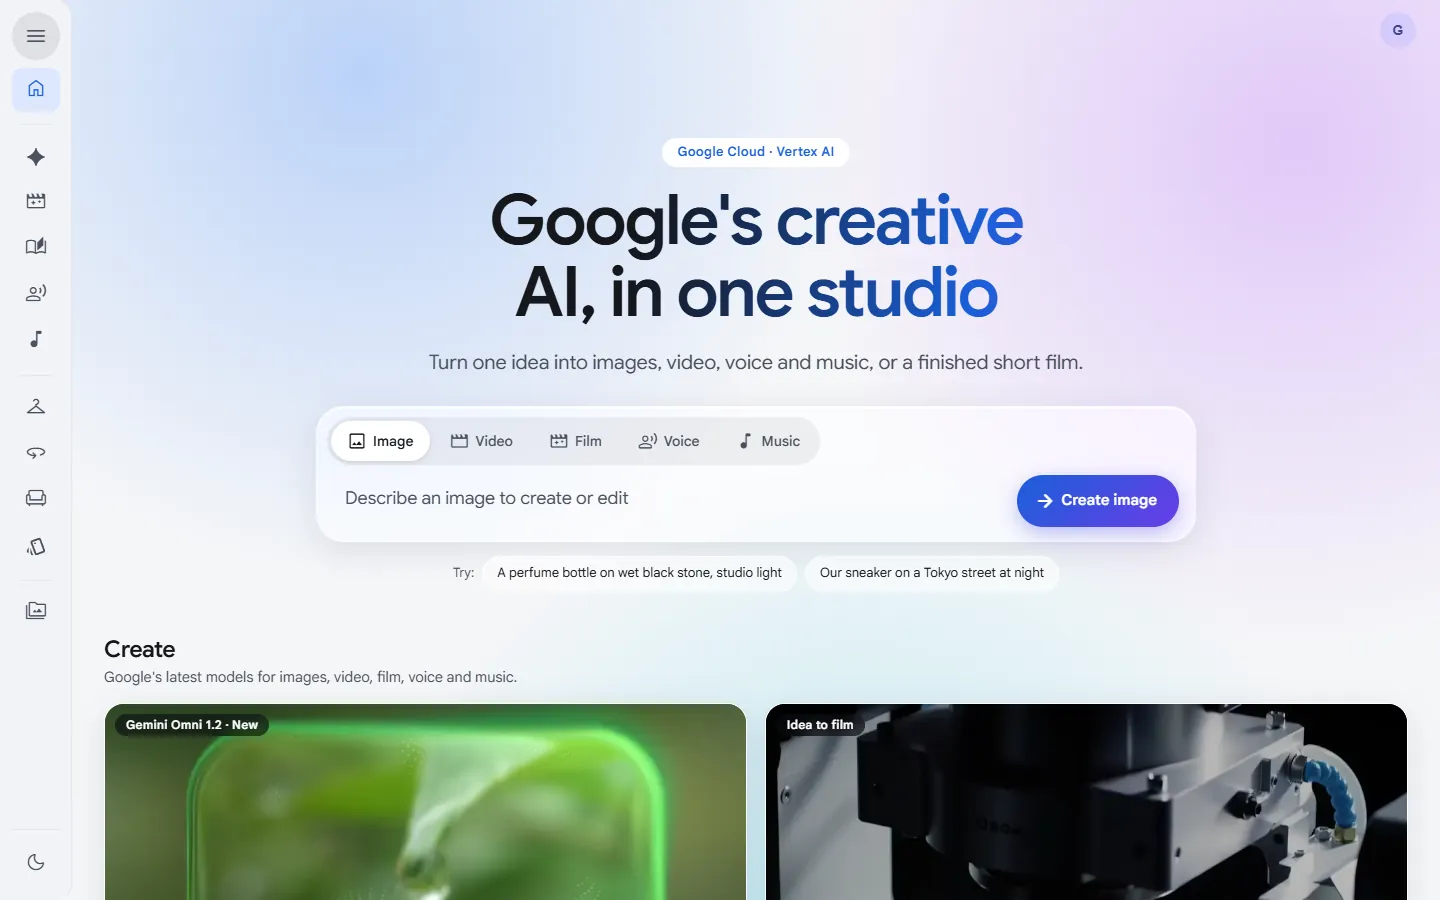
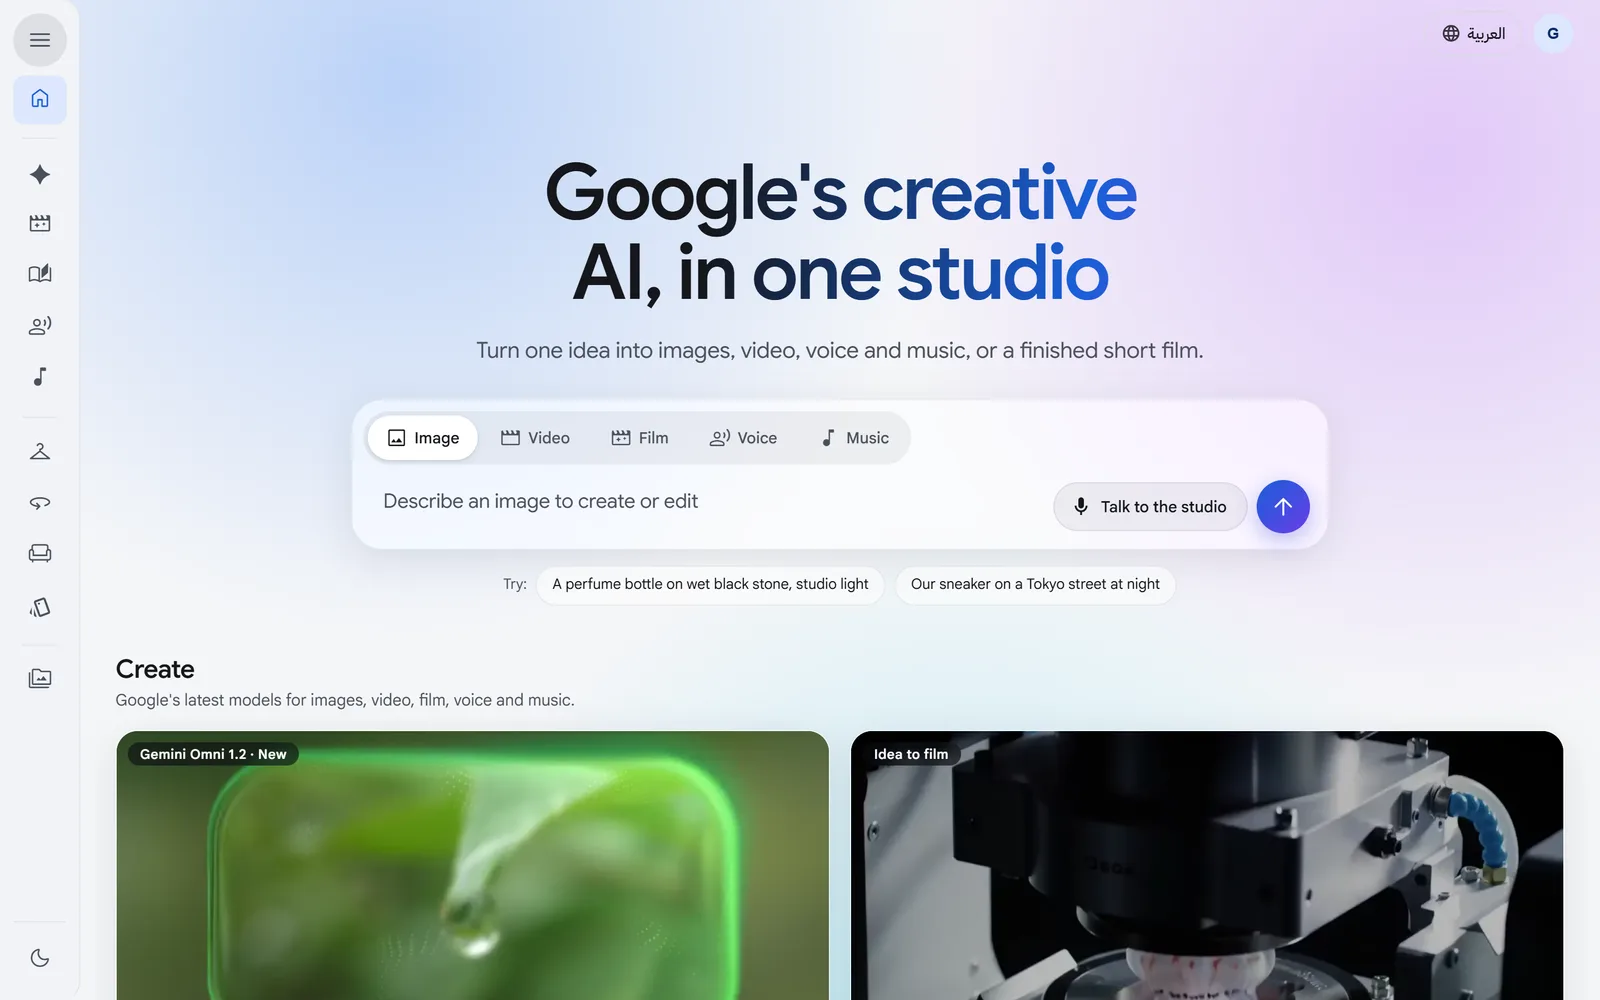
docs: showcase README with fresh screenshots, models, architecture and demo script

diff --git a/README.md b/README.md
@@ -2,58 +2,141 @@
 
 # GenMedia Studio
 
-**Google's creative AI in one studio: images, video, films, voice and music, on Vertex AI and Cloud Run.**
+### Google's creative AI, in one studio.
+
+One idea becomes an image, a video, a voice-over, a song, or a finished short film,<br>
+using Google's newest generative models on **Vertex AI**, deployed to **Cloud Run** with one command.
 
 [![License: Apache 2.0](https://img.shields.io/badge/license-Apache_2.0-blue.svg)](LICENSE)
 [![Python 3.14](https://img.shields.io/badge/python-3.14-3776AB.svg?logo=python&logoColor=white)](pyproject.toml)
-[![Runs on Cloud Run](https://img.shields.io/badge/runs_on-Cloud_Run-4285F4.svg?logo=googlecloud&logoColor=white)](deploy/quickstart/README.md)
+[![Vertex AI](https://img.shields.io/badge/models-Vertex_AI-4285F4.svg?logo=googlecloud&logoColor=white)](#the-google-models-inside)
+[![Cloud Run](https://img.shields.io/badge/runs_on-Cloud_Run-4285F4.svg?logo=googlecloud&logoColor=white)](deploy/quickstart/README.md)
+[![English and Arabic](https://img.shields.io/badge/languages-English_·_العربية-34A853.svg)](#built-for-real-demos)
 
-[Quick start](#quick-start) · [Deploy](#deploy-to-cloud-run) · [Configuration](docs/environment_variables.md) · [Contributing](CONTRIBUTING.md)
+[Studios](#the-studios) · [Models](#the-google-models-inside) · [Try it free](#try-it-in-two-minutes) · [Deploy](#deploy-to-your-google-cloud-project) · [Architecture](#architecture) · [Demo script](#a-five-minute-demo)
 
 <br>
 
 <picture>
   <source media="(prefers-color-scheme: dark)" srcset="docs/images/home-dark.webp">
   <source media="(prefers-color-scheme: light)" srcset="docs/images/home-light.webp">
-  <img alt="The GenMedia Studio home page" src="docs/images/home-light.webp" width="100%">
+  <img alt="GenMedia Studio home page: one prompt box with Image, Video, Film, Voice and Music, and a Talk to the studio button" src="docs/images/home-light.webp" width="100%">
 </picture>
 
 </div>
 
-Type one idea on the home page, pick Image, Video, Film, Voice or Music, and the right studio opens with your idea filled in. The whole studio works in English and Arabic (right to left), in light and dark.
+## Why it exists
 
-## Features
+Google's media models are best understood by watching them work together. GenMedia Studio puts them in one polished app a presenter can open in front of a customer: type an idea once, pick what to make, and the right studio opens with the idea filled in. Or click **Talk to the studio** and drive the whole app by voice.
 
-| Studio | What it does | Models |
-|---|---|---|
-| **Image** | Make and edit images from a prompt and reference pictures. | Nano Banana 2.1 |
-| **Video** | Make, edit, extend or upscale video from a prompt, a picture or frames. | Gemini Omni 1.2, Veo 3.1 |
-| **Story** | One idea to a finished film: script, storyboard, scenes, voice-over and music. | Gemini, Nano Banana, Veo, Lyria |
-| **Voice** | A script to natural speech in 130+ languages, one or two speakers. | Gemini 3.8 Flash TTS, Chirp 3 HD |
-| **Music** | Original music, with or without lyrics. | Lyria 3 |
+- **Every modality in one place.** Images, video, speech, music and multi-scene films share one prompt box, one library and one look.
+- **Real workflows, not just prompts.** Story Studio chains five models into a finished film; the industry demos show retail, real estate and brand use cases end to end.
+- **Yours in your own project.** One script deploys it to Cloud Run in your Google Cloud project. It uses Google Cloud credentials (no API keys), keeps every file in your own bucket, and costs nothing while idle.
 
-Industry demos: **Fashion** try-on, **Product 360** turntables, **Interiors** from a floor plan, and **Brand kit** campaigns. Everything you make lands in the **Library**, and sign-in comes with **admin** and **user** roles (or Google sign-in through IAP).
+## The studios
 
 <table>
   <tr>
-    <td width="50%">
+    <td width="50%" valign="top">
       <picture>
         <source media="(prefers-color-scheme: dark)" srcset="docs/images/story-dark.webp">
-        <img alt="Story Studio" src="docs/images/story-light.webp">
+        <img alt="Story Studio storyboard with four scenes and camera moves" src="docs/images/story-light.webp">
       </picture>
+      <h3>Story Studio</h3>
+      One idea to a finished film. Gemini writes the script, Nano Banana paints the storyboard, Gemini Omni shoots each scene with sound and on-camera speech, Gemini TTS narrates and Lyria scores it. Finish it in the timeline editor, export an Arabic version, and reuse <b>Sets</b> (the same characters, places and voices) across films.
     </td>
-    <td width="50%">
+    <td width="50%" valign="top">
       <picture>
         <source media="(prefers-color-scheme: dark)" srcset="docs/images/video-dark.webp">
-        <img alt="Video Studio" src="docs/images/video-light.webp">
+        <img alt="Video Studio with Text, Image, First and last frame, References, Edit, Extend and Upscale modes" src="docs/images/video-light.webp">
       </picture>
+      <h3>Video Studio</h3>
+      Make video from text, a picture, first and last frames or reference images, then edit, extend or upscale it. Gemini Omni makes the picture and the sound together; Veo 3.1 is available as an option.
+    </td>
+  </tr>
+  <tr>
+    <td width="50%" valign="top">
+      <picture>
+        <source media="(prefers-color-scheme: dark)" srcset="docs/images/image-dark.webp">
+        <img alt="Image Studio prompt box with Nano Banana 2.1, aspect ratio and resolution chips" src="docs/images/image-light.webp">
+      </picture>
+      <h3>Image Studio</h3>
+      Create and edit images from a prompt and your own reference pictures with Nano Banana 2.1. Settings typed in the prompt ("16:9", "4K") update the chips, and one click turns any image into a video.
+    </td>
+    <td width="50%" valign="top">
+      <picture>
+        <source media="(prefers-color-scheme: dark)" srcset="docs/images/voice-dark.webp">
+        <img alt="Voice studio with Gemini TTS, voice, language, style and pace chips" src="docs/images/voice-light.webp">
+      </picture>
+      <h3>Voice and Music</h3>
+      Natural speech in 130+ languages with one or two speakers and stage directions (Gemini TTS, Chirp 3 HD). Original music, with or without lyrics, from Lyria 3.
     </td>
   </tr>
 </table>
 
-## Quick start
+### Talk to the studio
 
-You need [`uv`](https://docs.astral.sh/uv/). Mock mode needs no Google Cloud account: it returns placeholder media so you can click through every page for free.
+A **Gemini Live** voice agent runs the app for you. Say *"make an image of a red fox in the snow, and while that's going, start a video of waves at sunset"*: the agent opens each studio, types the prompt, runs the jobs side by side, and tells you at the next pause when each one is ready. You can hang up and type instead at any time.
+
+### Industry demos
+
+<table>
+  <tr>
+    <td width="33%" valign="top">
+      <picture>
+        <source media="(prefers-color-scheme: dark)" srcset="docs/images/fashion-dark.webp">
+        <img alt="Fashion virtual try-on" src="docs/images/fashion-light.webp">
+      </picture>
+      <b>Fashion</b><br>Dress a model in any garment, or style a whole look from a catalog.
+    </td>
+    <td width="33%" valign="top">
+      <picture>
+        <source media="(prefers-color-scheme: dark)" srcset="docs/images/product-dark.webp">
+        <img alt="Product 360 turntable" src="docs/images/product-light.webp">
+      </picture>
+      <b>Product 360</b><br>One product photo becomes a 360° turntable video.
+    </td>
+    <td width="33%" valign="top">
+      <picture>
+        <source media="(prefers-color-scheme: dark)" srcset="docs/images/interiors-dark.webp">
+        <img alt="Interiors from a floor plan" src="docs/images/interiors-light.webp">
+      </picture>
+      <b>Interiors</b><br>A floor plan becomes a 3D view, restyled rooms and a video tour.
+    </td>
+  </tr>
+</table>
+
+Plus **Brand kit**, a set of on-brand campaign images from one idea, and the **Library**, where everything anyone makes is saved with its prompt and settings.
+
+## The Google models inside
+
+| Model | What it does here | Used in |
+|---|---|---|
+| **Gemini 3.8 Flash** | Scripts, scene plans, prompt rewriting, the "suggest" and "enhance" buttons | Every studio |
+| **Nano Banana 2.1** (Gemini image) | Image creation and editing, storyboards, try-on, rooms, brand sets | Image, Story, Fashion, Interiors, Brand kit |
+| **Gemini Omni 1.2 Flash** | Video with native sound and speech, edits, extensions | Video, Story, Product 360, Interiors |
+| **Veo 3.1** (optional) | Alternative video model | Video |
+| **Gemini TTS** and **Chirp 3 HD** | Narration and voice-over in 130+ languages | Voice, Story |
+| **Lyria 3** | Instrumental music and songs with lyrics | Music, Story |
+| **Gemini Live** | Real-time voice agent that drives the app | Talk to the studio |
+
+Every model ID is a setting, so a new model version is a config change: see [docs/environment_variables.md](docs/environment_variables.md).
+
+## Built for real demos
+
+<picture>
+  <source media="(prefers-color-scheme: dark)" srcset="docs/images/arabic-dark.webp">
+  <img alt="The home page in Arabic, laid out right to left" src="docs/images/arabic-light.webp" width="100%">
+</picture>
+
+- **English and Arabic.** Every screen switches language and direction (right to left) with one click, in light or dark.
+- **Demo mode.** Run with no Google Cloud account: every studio returns placeholder media instantly, so you can rehearse or click through the whole app for free.
+- **Sign-in your way.** Built-in admin and user roles, or Google sign-in through Identity-Aware Proxy. Admins choose whether the Library is shared or private to each person.
+- **Phone-ready.** Every page works from 390 px wide up.
+
+## Try it in two minutes
+
+You need [`uv`](https://docs.astral.sh/uv/). Demo mode needs no cloud account and costs nothing.
 
 ```bash
 git clone https://github.com/ProjectZero02/creative-studio.git
@@ -62,30 +145,63 @@ uv sync
 APP_ENV=local GENMEDIA_MOCK_GENERATION=true STORY_STUDIO_MOCK=true uv run src/main.py
 ```
 
-Open <http://localhost:8080>. For real models, run `gcloud auth application-default login`, copy `dotenv.template` to `.env`, set `PROJECT_ID` and `GENMEDIA_BUCKET`, then `uv run src/main.py`.
+Open <http://localhost:8080>. Add `?live=offline` to any page to try the voice agent by typing.
 
-## Deploy to Cloud Run
+To use the real models, run `gcloud auth application-default login`, copy `dotenv.template` to `.env`, set `PROJECT_ID` and `GENMEDIA_BUCKET`, and run `uv run src/main.py`.
 
-One script sets up the project (APIs, service account, bucket, Firestore, secrets) and deploys. It is safe to re-run, and an idle studio scales to zero.
+## Deploy to your Google Cloud project
+
+One script turns on the APIs and creates the service account, bucket, Firestore database and secrets, then builds and deploys to Cloud Run. It is safe to re-run, and an idle studio scales to zero.
 
 ```bash
 bash deploy/quickstart/deploy.sh --project YOUR_PROJECT --admin-email you@company.com
 ```
 
-Add `--dry-run` to preview every command. Full guide: [`deploy/quickstart/README.md`](deploy/quickstart/README.md).
+Add `--dry-run` to see every command first, or `--region` to pick another region (default `us-central1`). Prefer infrastructure as code? Terraform modules are in [`deploy/terraform`](deploy/terraform). Full guide: [`deploy/quickstart/README.md`](deploy/quickstart/README.md).
 
-## How it works
+## Architecture
 
-A Python app: a [Mesop](https://mesop-dev.github.io/mesop/) UI on FastAPI, running as one Cloud Run service. Models are called through **Vertex AI** with Google Cloud credentials (no API keys), media is saved to **Cloud Storage**, and the library, users and stories live in **Firestore**.
+```mermaid
+flowchart LR
+  user([Presenter or team<br>browser, mic]) -->|HTTPS + WebSocket| iap[Identity-Aware Proxy<br>optional]
+  iap --> run
+
+  subgraph gcp [Your Google Cloud project]
+    run[Cloud Run<br>GenMedia Studio<br>Mesop UI on FastAPI]
+    vertex[Vertex AI<br>Gemini · Nano Banana · Gemini Omni · Veo<br>Gemini TTS · Chirp 3 HD · Lyria · Gemini Live]
+    gcs[(Cloud Storage<br>images, video, audio)]
+    fs[(Firestore<br>library, users, stories, sets)]
+    sm[Secret Manager]
+    build[Cloud Build +<br>Artifact Registry]
+  end
+
+  run -->|service account, no API keys| vertex
+  run --> gcs
+  run --> fs
+  run --> sm
+  build -.->|container image| run
+```
+
+- **One Cloud Run service** serves the UI and API, with session affinity for the Gemini Live WebSocket. It scales to zero when nobody is using it.
+- **Vertex AI** is called with the service account's credentials, so there are no API keys to leak or rotate.
+- **Cloud Storage** holds every generated file; **Firestore** holds the library, users, stories and sets.
+- Long jobs (films, multi-scene renders) run in the background and survive page changes.
 
 | Folder | What's in it |
 |---|---|
-| `src/` | The app: `main.py`, plus `pages/` (one file per studio), `components/`, `models/` (Vertex AI calls), `services/`, `routers/`, `state/`, `config/`, `common/` and `assets/` |
-| `deploy/` | Cloud Run quickstart, Terraform and scripts |
-| `test/` | `pytest` suite |
-| `docs/` | Configuration reference, FAQ and screenshots |
-| `scripts/` | Build and maintenance scripts |
+| `src/` | The app: `main.py`, `pages/` (one file per studio), `components/`, `models/` (Vertex AI calls), `services/` (story, live agent and job runners), `routers/`, `state/`, `config/` |
+| `deploy/` | Cloud Run quickstart, Cloud Build files and Terraform |
+| `test/` | `pytest` suite (700+ tests) |
+| `docs/` | Configuration reference, FAQ, plans and screenshots |
 | `experiments/` | Stand-alone apps and MCP servers from upstream |
+
+## A five-minute demo
+
+1. **Home.** Type *"Our sneaker on a Tokyo street at night"*, pick **Image**, and press send. Image Studio opens with the prompt filled in.
+2. **Image to video.** Click **Make a video** on the result. Gemini Omni animates it, with sound.
+3. **Story.** In Story Studio, type one line, for example *"A coffee brand's 30-second ad: sunrise, first sip, city waking up"*. Walk through script, set, storyboard and scenes, then play the finished film in the editor.
+4. **Arabic.** Click **العربية**. The whole app flips to Arabic, right to left. Turn on the Arabic version of the film.
+5. **Voice.** Click **Talk to the studio** and ask for two things at once. The app works by itself while you talk.
 
 ## Contributing
 
@@ -93,4 +209,4 @@ Issues and pull requests are welcome; see [CONTRIBUTING.md](CONTRIBUTING.md). Ru
 
 ## License
 
-A fork of Google's [GenMedia Creative Studio](https://github.com/GoogleCloudPlatform/genmedia-creative-studio), licensed under [Apache 2.0](LICENSE). Not an officially supported Google product, and meant for demos, not production.
+A fork of Google's open-source [GenMedia Creative Studio](https://github.com/GoogleCloudPlatform/genmedia-creative-studio), licensed under [Apache 2.0](LICENSE). This is not an officially supported Google product. It is built for demos and workshops, not production workloads.
